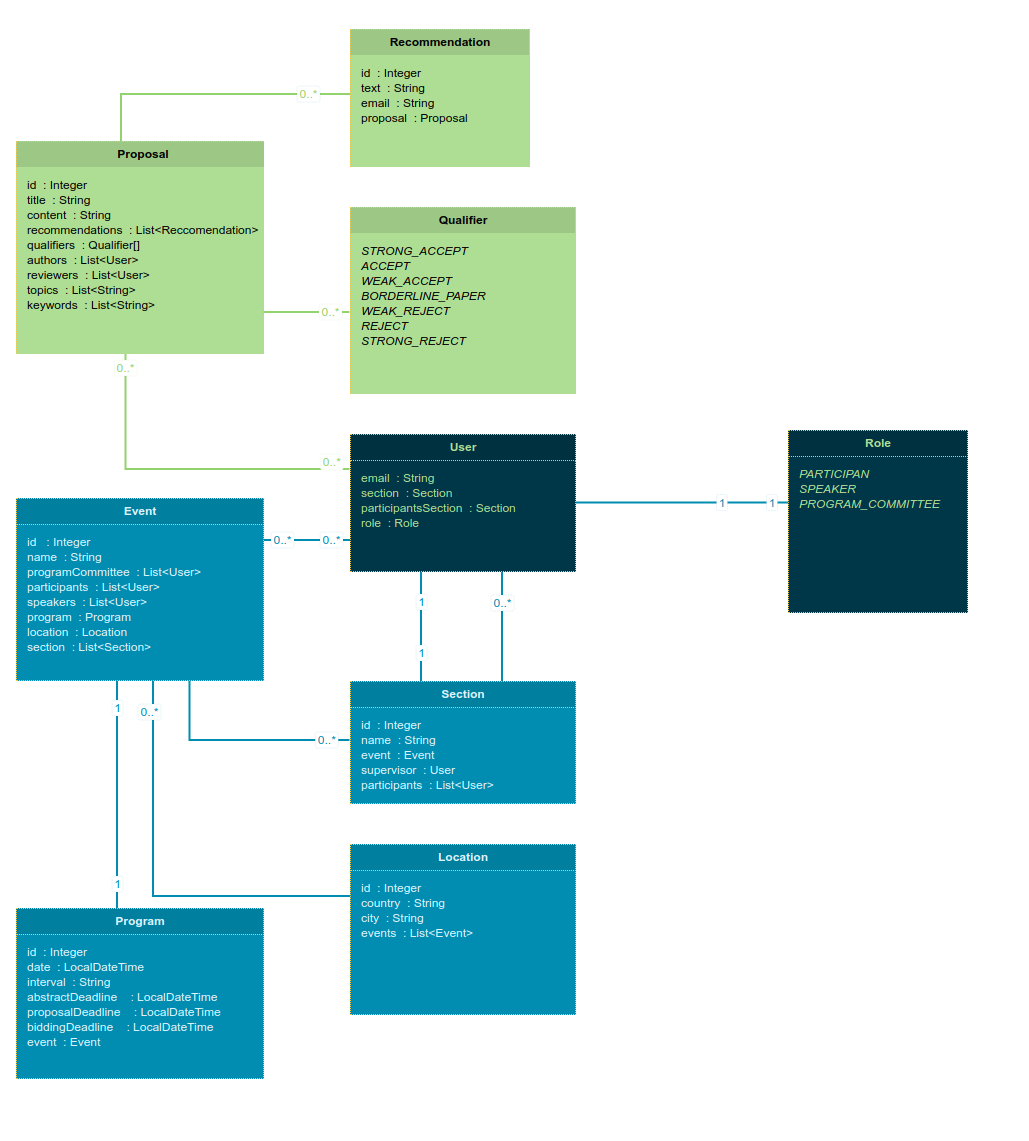
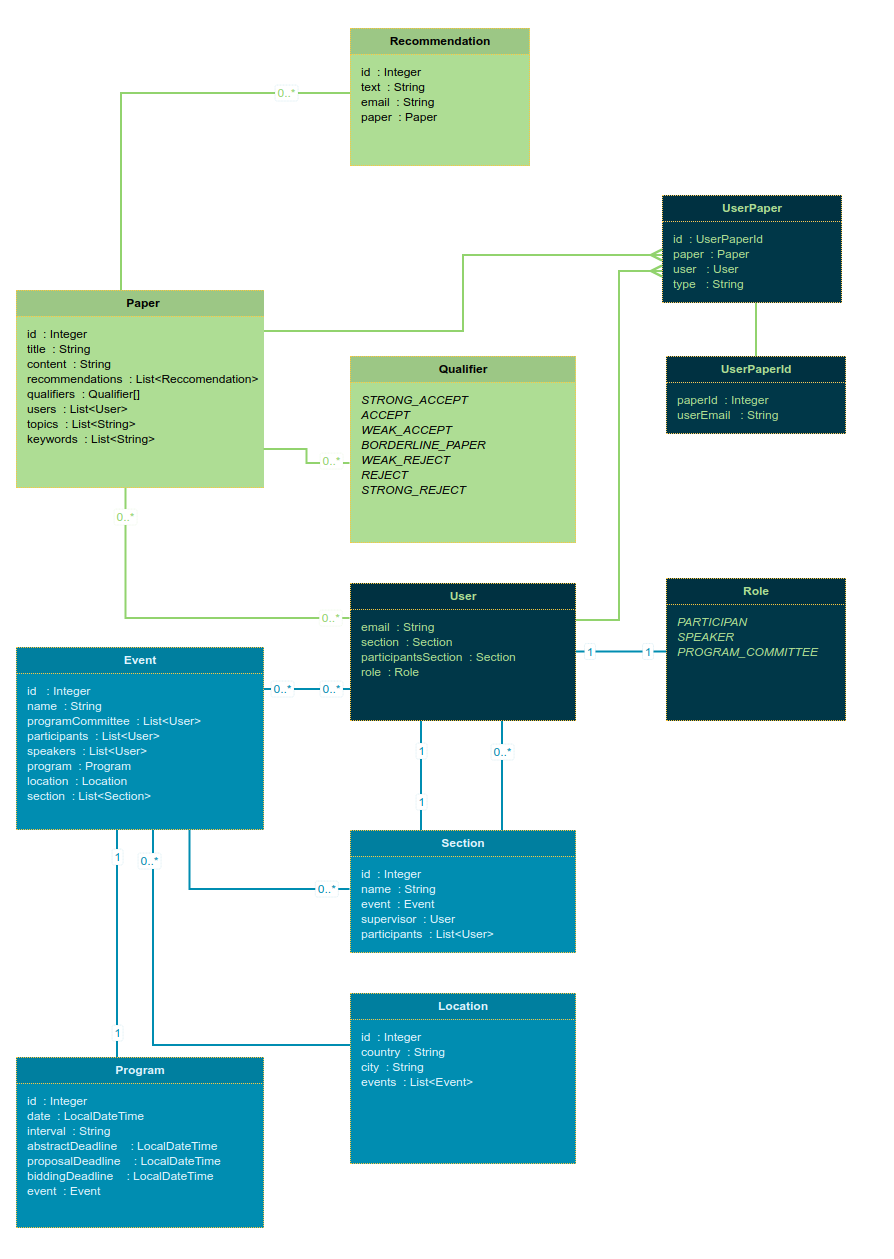
update README

diff --git a/README.md b/README.md
@@ -8,7 +8,7 @@ Now you can start the application by running Server class in your IDE or by runn
 `java -jar uber-conference-management-system-1.0-SNAPSHOT.jar`
 
 ### ❄ Project structure
-We have seven entities and two enums. Here is the class diagram that contain relations between them:
+We have nine entities and two enums. Here is the class diagram that contain relations between them:
 ![Class diagram](src/main/resources/img/CMS-Class_Diagram.png)
 
 ### 💎 Database schema
@@ -80,8 +80,9 @@ create table if not exists user_event
 
 create table if not exists user_paper
 (
-	email text,
-	paper_id smallint
+	user_email text,
+	paper_id smallint,
+        type text
 );
 
 CREATE TYPE qualifier AS ENUM
@@ -121,12 +122,12 @@ ALTER TABLE user_paper
 ADD FOREIGN KEY (paper_id) REFERENCES paper(id);
 
 ALTER TABLE user_paper
-ADD FOREIGN KEY (email) REFERENCES user_entity(email);
+ADD FOREIGN KEY (user_email) REFERENCES user_entity(email);
 ```
 
 ##### Database tables:
 
-![DB table diagram](src/main/resources/img/CMS.png)
+![DB table diagram](src/main/resources/img/CMS-Database.png)
 
 ### 🚀 Use Postman to test the REST apis
 There are 4 main request URLs, depending on which controller is responsible to handle the request : 
